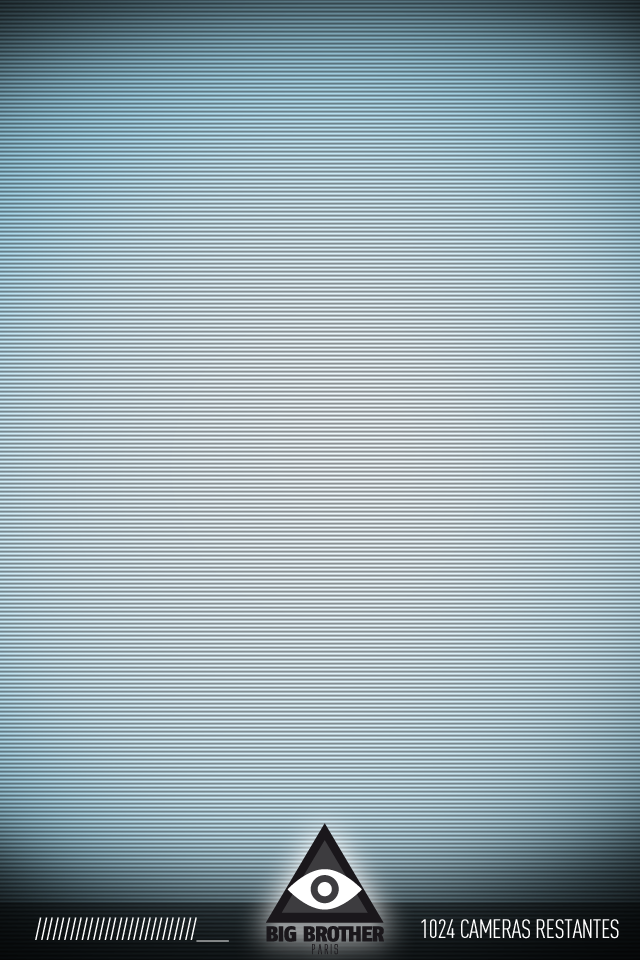
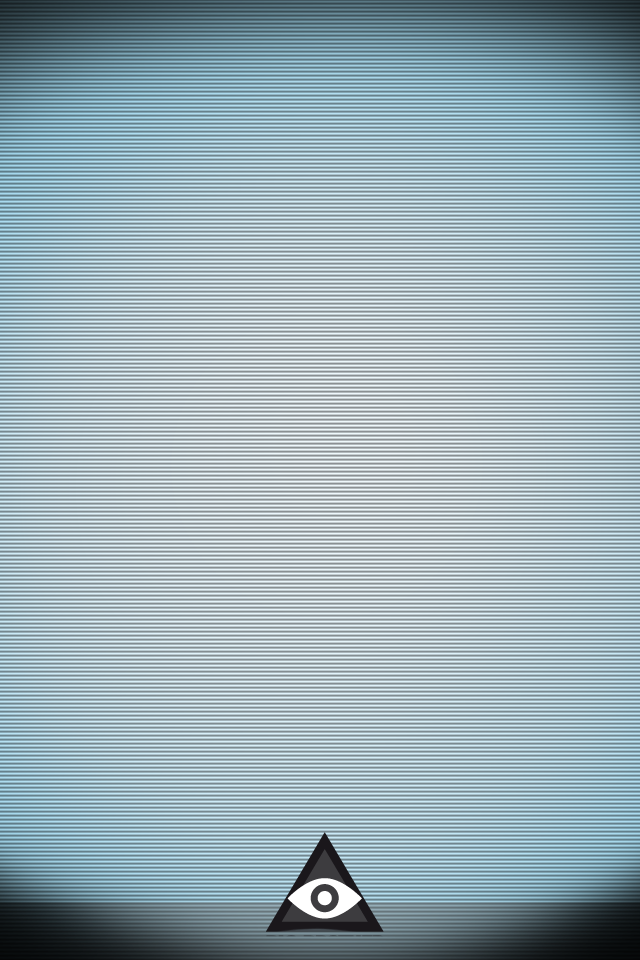
Ajout d'un écran d'accueil

Changed region(s): [[0.0, 0.7188, 1.0, 1.0], [0.9688, 0.125, 1.0, 0.1875]]

diff --git a/NineteenEightyFour/NineteenEightyFour/MenuViewController.m b/NineteenEightyFour/NineteenEightyFour/MenuViewController.m
@@ -1,0 +1,60 @@
+#import "MenuViewController.h"
+#import "GameViewController.h"
+
+@implementation MenuViewController
+
+- (id)initWithNibName:(NSString *)nibNameOrNil bundle:(NSBundle *)nibBundleOrNil
+{
+    self = [super initWithNibName:nibNameOrNil bundle:nibBundleOrNil];
+    if (self) {
+        // Custom initialization
+    }
+    return self;
+}
+
+- (IBAction)startGame
+{
+    GameViewController *gameController = [[[GameViewController alloc] initWithNibName:@"GameViewController" bundle:nil] autorelease];
+
+    [self presentModalViewController:gameController animated:YES];
+    
+/*    UIWindow *window = [self.view window];
+    
+    window.rootViewController = gameController;*/
+}
+
+- (void)dealloc
+{
+    [super dealloc];
+}
+
+- (void)didReceiveMemoryWarning
+{
+    // Releases the view if it doesn't have a superview.
+    [super didReceiveMemoryWarning];
+    
+    // Release any cached data, images, etc that aren't in use.
+}
+
+#pragma mark - View lifecycle
+
+- (void)viewDidLoad
+{
+    [super viewDidLoad];
+    // Do any additional setup after loading the view from its nib.
+}
+
+- (void)viewDidUnload
+{
+    [super viewDidUnload];
+    // Release any retained subviews of the main view.
+    // e.g. self.myOutlet = nil;
+}
+
+- (BOOL)shouldAutorotateToInterfaceOrientation:(UIInterfaceOrientation)interfaceOrientation
+{
+    // Return YES for supported orientations
+    return (interfaceOrientation == UIInterfaceOrientationPortrait);
+}
+
+@end

diff --git a/NineteenEightyFour/NineteenEightyFour/GameViewController.m b/NineteenEightyFour/NineteenEightyFour/GameViewController.m
@@ -70,7 +70,7 @@ const CLLocationDegrees kLatitudeDelta = .0034;
         [self addCameraWithPosition:cameraPosition andRadius:cameraRadius];
     }
 
-    CameraOverlay *overlay = [[CameraOverlay alloc] initWithCameras:cameras];
+    CameraOverlay *overlay = [[[CameraOverlay alloc] initWithCameras:cameras] autorelease];
     [mapView addOverlay:overlay];
 }
 
@@ -103,7 +103,7 @@ const CLLocationDegrees kLatitudeDelta = .0034;
 
     id<MKOverlay> theOverlay = [[mapView overlays] objectAtIndex:0];
     CameraOverlayView *theOverlayView = (CameraOverlayView *)[mapView viewForOverlay:theOverlay];
-    [theOverlayView setNeedsDisplay];
+    [theOverlayView setNeedsDisplayInMapRect:MKMapRectWorld];
 }
 
 - (MKOverlayView *)mapView:(MKMapView *)mapView viewForOverlay:(id<MKOverlay>)overlay

diff --git a/NineteenEightyFour/NineteenEightyFour/MenuViewController.h b/NineteenEightyFour/NineteenEightyFour/MenuViewController.h
@@ -1,0 +1,16 @@
+//
+//  MenuViewController.h
+//  NineteenEightyFour
+//
+//  Created by Stéphane Hanser on 24/04/11.
+//  Copyright 2011 Jonathan Perret. All rights reserved.
+//
+
+#import <UIKit/UIKit.h>
+
+
+@interface MenuViewController : UIViewController {
+    
+}
+- (IBAction)startGame;
+@end
